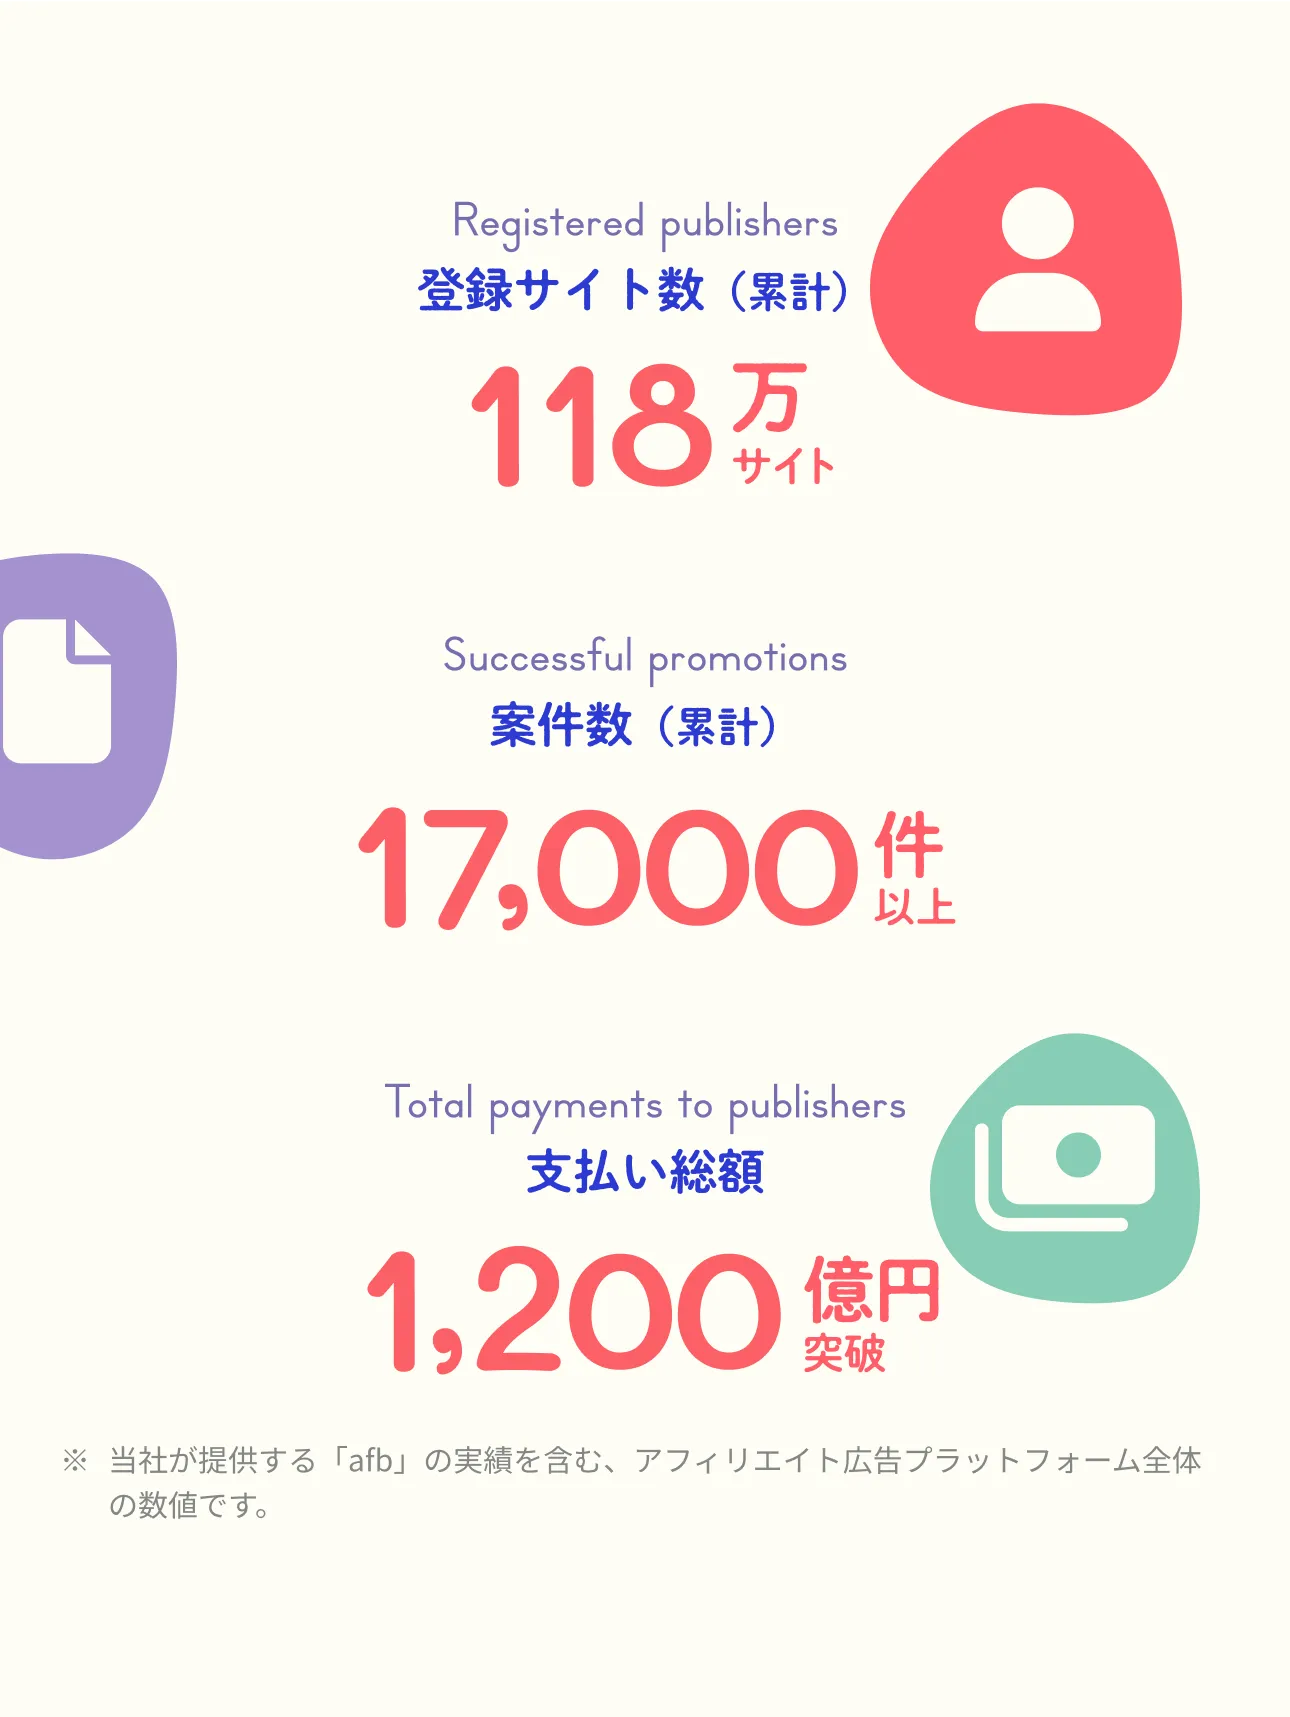
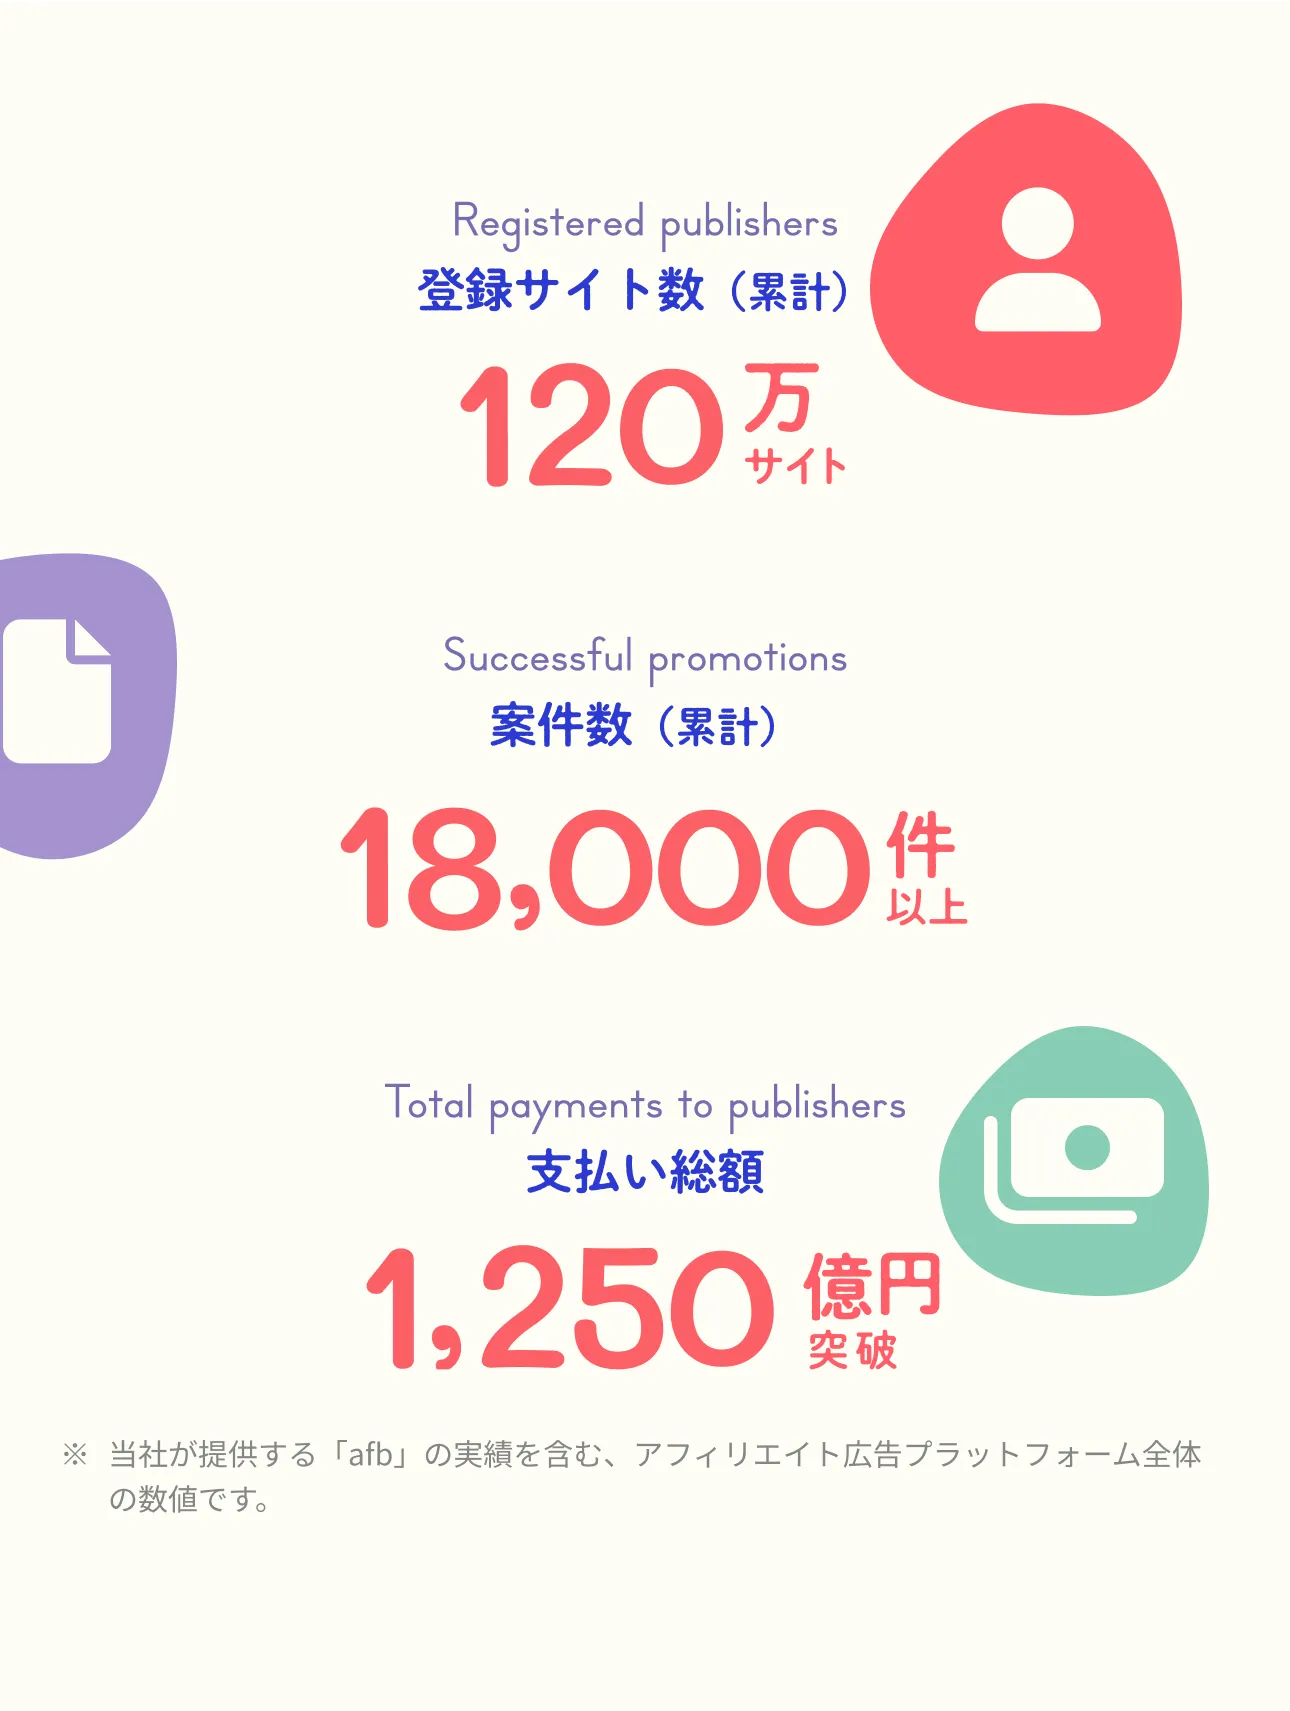
[fix] 統計の内容を更新

diff --git a/ja_jp/influencer/index.html b/ja_jp/influencer/index.html
@@ -187,7 +187,7 @@
             <div id="trackRecord" class="trackRecord c-fadeinScroll">
                 <picture>
                     <source media="(min-width: 430px)" srcset="assets/images/trackRecord_contents_lg.webp">
-                    <img src="assets/images/trackRecord_contents_sm.webp" alt="登録サイト数（累計）118万サイト、案件数（累計）17,000件以上、支払い総額1,200億円突破。※当社が提携する「afb」の実績を含む、アフィリエイト広告プラットフォーム全体の数値です" width="375" height="553">
+                    <img src="assets/images/trackRecord_contents_sm.webp" alt="登録サイト数（累計）120万サイト、案件数（累計）18,000件以上、支払い総額1,250億円突破。※当社が提携する「afb」の実績を含む、アフィリエイト広告プラットフォーム全体の数値です" width="375" height="553">
                 </picture>
             </div>
 
